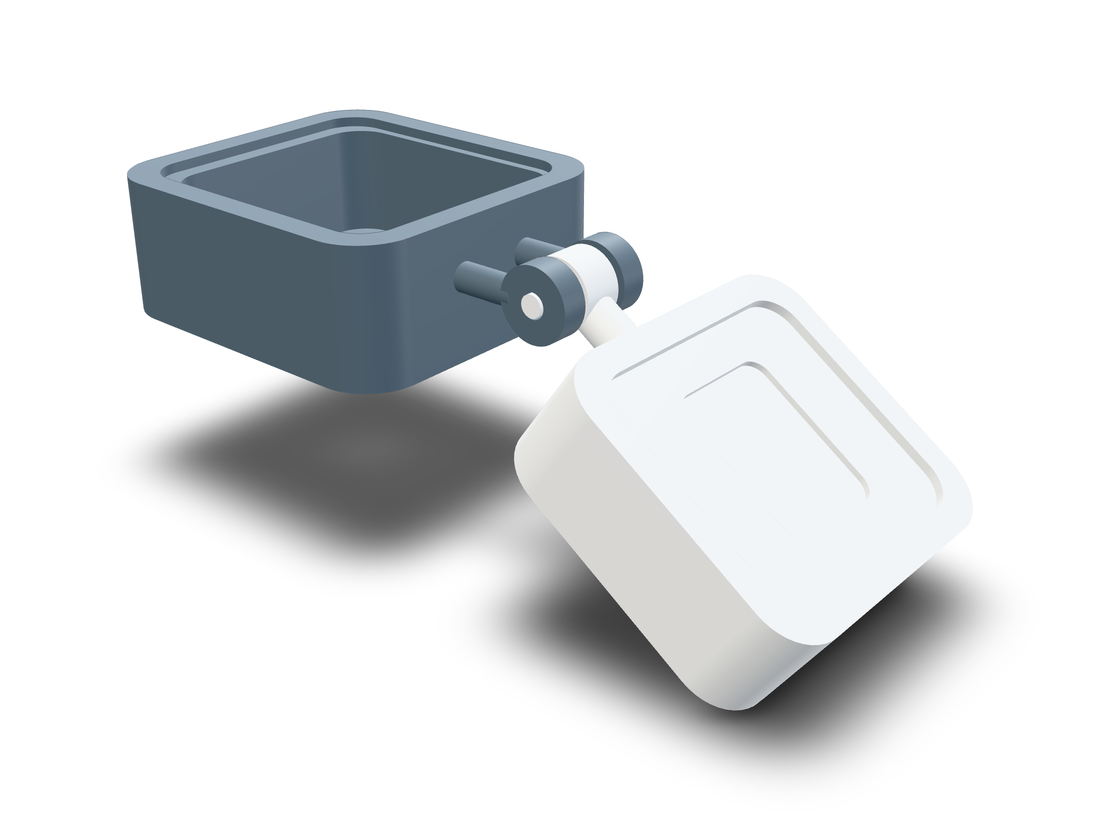
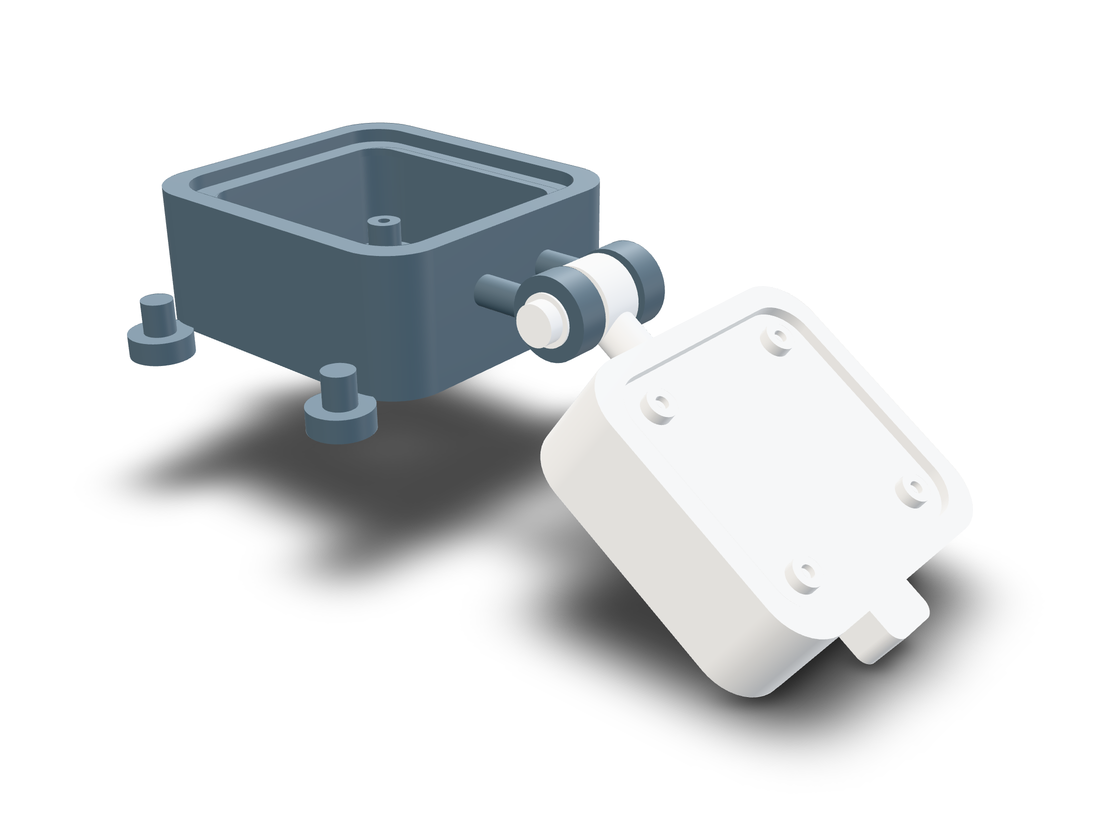
fix(cookbook): thicken the clamshell into a hinged enclosure
The hero was two tubs and a flush pin. Add a mating lip, corner standoffs, cavity bosses, a latch ear, and socket caps on the clevis pin so the open pose reads as shop hardware.

diff --git a/cookbook/snippets/clamshell-enclosure-release-pack.md b/cookbook/snippets/clamshell-enclosure-release-pack.md
@@ -54,33 +54,52 @@ animationView({
   fps: 24,
 });
 
-const R = 8;
+const R = 9;
 const pinR = 2.4;
 const boreR = 2.75;
 const yCyl = (r, y0, y1, x = 0, z = 0) =>
   cylinder(y1 - y0, r).rotateX(-90).translate(x, y0, z);
 
+// Fork knuckles. The tongue sits in the open center so the pin stays a
+// clearance fit instead of a volume overlap.
 const cheeks = union(
-  yCyl(R, 6, 12),
-  yCyl(R, -12, -6),
-).subtract(yCyl(boreR, -13, 13));
-// Turned web into the shell wall — a rectangular bridge reads as a toy block.
-const web = (y: number) => cylinder(16, 3.2).alongAxis([1, 0, 0]).translate(-22, y, 0);
-const bridge = web(9).union(web(-9));
+  yCyl(R, 6.4, 13.2),
+  yCyl(R, -13.2, -6.4),
+).subtract(yCyl(boreR, -14, 14));
+const web = (y: number) => cylinder(15.2, 3.4).alongAxis([1, 0, 0]).translate(-22, y, 0);
+const bridge = web(9.6).union(web(-9.6));
 
 let baseShell = extrudeRoundedRect(78, 72, 12, 28).translate(-59, 0, -18);
 baseShell = baseShell.subtract(extrudeRoundedRect(62, 56, 8, 24).translate(-57, 0, -14));
-baseShell = baseShell.subtract(extrudeRoundedRect(44, 36, 6, 1.6).translate(-59, 0, -18.15));
+baseShell = baseShell.subtract(extrudeRoundedRect(40, 32, 5, 1.3).translate(-59, 0, -18.1));
 baseShell = baseShell.subtract(cylinder(12, 2.1).translate(-60, 0, -20));
-// Standing lip on the opening, plus feet so the tub is a molded shell.
-const baseLip = extrudeRoundedRect(78, 72, 12, 2.4).translate(-59, 0, 9.75)
-  .subtract(extrudeRoundedRect(66, 60, 8, 3.2).translate(-59, 0, 9.4));
-let feet = cylinder(2.6, 3.5).translate(-86, -24, -20.4);
-for (const [x, y] of [[-32, -24], [-86, 24], [-32, 24]] as const) {
-  feet = feet.union(cylinder(2.6, 3.5).translate(x, y, -20.4));
+// Outer lip plus a lower land: mating face and wall thickness both read from above.
+const baseLip = extrudeRoundedRect(78, 72, 12, 3.4).translate(-59, 0, 9.7)
+  .subtract(extrudeRoundedRect(68, 62, 9, 4.2).translate(-59, 0, 9.3));
+const baseLand = extrudeRoundedRect(68, 62, 9, 1.8).translate(-59, 0, 8.15)
+  .subtract(extrudeRoundedRect(58, 52, 6, 2.6).translate(-59, 0, 7.8));
+// Standoffs break the planform toward the camera. Pads under the floor
+// stay hidden at the hero elevation.
+function footPad(x: number, y: number) {
+  return cylinder(5.2, 7.2).translate(x, y, -22.4)
+    .union(cylinder(8, 3.6).translate(x, y, -17.6));
 }
+let feet = footPad(-88, -42);
+for (const [x, y] of [[-30, -42], [-88, 42], [-30, 42]] as const) {
+  feet = feet.union(footPad(x, y));
+}
+function screwBoss(x: number, y: number) {
+  return cylinder(9, 4).translate(x, y, -14)
+    .subtract(cylinder(6, 1.45).translate(x, y, -8));
+}
+let bosses = screwBoss(-78, -18);
+for (const [x, y] of [[-42, -18], [-78, 18], [-42, 18]] as const) {
+  bosses = bosses.union(screwBoss(x, y));
+}
+const latch = extrudeRoundedRect(14, 16, 3, 14).translate(-100, 0, -8)
+  .subtract(cylinder(16, 1.7).alongAxis([1, 0, 0]).translate(-110, 0, -1));
 
-const baseBody = union(cheeks, bridge, baseShell, baseLip, feet)
+const baseBody = union(cheeks, bridge, baseShell, baseLip, baseLand, feet, bosses, latch)
   .datum('A', { atZ: -18 })
   .datum('B', { atX: -98 })
   .datum('C', { atY: -36 })
@@ -88,18 +107,40 @@ const baseBody = union(cheeks, bridge, baseShell, baseLip, feet)
     type: 'position', value: 0.3, modifier: '⌀', datums: ['A', 'B', 'C'],
     edge: { ofCurveType: 'CIRCLE', near: [-60, 0, -18] },
   })
-  .finish('abs', { color: '#5c6e7c' });
+  .finish('abs', { color: '#5a6e7c' });
 
-const tongue = yCyl(R - 0.4, -4.6, 4.6);
-const pin = yCyl(pinR, -12.4, 12.4);
-const neck = cylinder(22, 4.4).alongAxis([1, 0, 0]);
-let lidShell = extrudeRoundedRect(64, 68, 11, 22).translate(50, 0, -10);
-lidShell = lidShell.subtract(extrudeRoundedRect(50, 54, 7, 18).translate(52, 0, -8));
-// Pocket opens through the top face (a buried subtract leaves a blank slab).
-lidShell = lidShell.subtract(extrudeRoundedRect(34, 26, 4, 1.5).translate(50, 0, 10.7));
-const lidLip = extrudeRoundedRect(64, 68, 11, 2.2).translate(50, 0, 11.8)
-  .subtract(extrudeRoundedRect(52, 56, 7, 3).translate(50, 0, 11.4));
-const lidBody = union(tongue, pin, neck, lidShell, lidLip).finish('abs', { color: '#e7ecef' });
+const tongue = yCyl(R - 0.4, -4.8, 4.8);
+// Pin runs out through both caps so the ends read as socket heads past the fork.
+const pin = yCyl(pinR, -17.6, 17.6);
+function hingeCap(yOuter: number, inward: number) {
+  const len = 3.5;
+  const y0 = inward > 0 ? yOuter - len : yOuter;
+  const y1 = y0 + len;
+  const head = yCyl(4.5, y0, y1);
+  const sock0 = inward > 0 ? yOuter - 2.2 : yOuter - 0.2;
+  return head.subtract(yCyl(1.7, sock0, sock0 + 2.4));
+}
+const washer = yCyl(5.7, 13.55, 14.15).union(yCyl(5.7, -14.15, -13.55));
+const caps = hingeCap(17.6, 1).union(hingeCap(-17.6, -1));
+const neck = cylinder(20, 4.6).alongAxis([1, 0, 0]).translate(2, 0, 0);
+let lidShell = extrudeRoundedRect(64, 68, 11, 20).translate(50, 0, -8);
+lidShell = lidShell.subtract(extrudeRoundedRect(50, 54, 7, 16).translate(52, 0, -6));
+lidShell = lidShell.subtract(extrudeRoundedRect(36, 28, 4, 2.2).translate(50, 0, 9.0));
+const lidLip = extrudeRoundedRect(64, 68, 11, 2.8).translate(50, 0, 11.5)
+  .subtract(extrudeRoundedRect(54, 58, 8, 3.6).translate(50, 0, 11.1));
+function lidScrew(x: number, y: number) {
+  return cylinder(2.8, 3.3).translate(x, y, 11.7)
+    .union(cylinder(5, 1.55).translate(x, y, 8))
+    .subtract(cylinder(1.7, 1.4).translate(x, y, 13.2));
+}
+let lidScrews = lidScrew(30, 20);
+for (const [x, y] of [[70, 20], [30, -20], [70, -20]] as const) {
+  lidScrews = lidScrews.union(lidScrew(x, y));
+}
+const strike = extrudeRoundedRect(12, 14, 3, 10).translate(84, 0, -2)
+  .subtract(cylinder(10, 1.5).alongAxis([1, 0, 0]).translate(80, 0, 2));
+const lidBody = union(tongue, pin, washer, caps, neck, lidShell, lidLip, lidScrews, strike)
+  .finish('abs', { color: '#f3f6f8' });
 
 const arm = assembly('clamshell-enclosure-release');
 const base = arm.part('base-shell', baseBody, { material: 'abs' });
